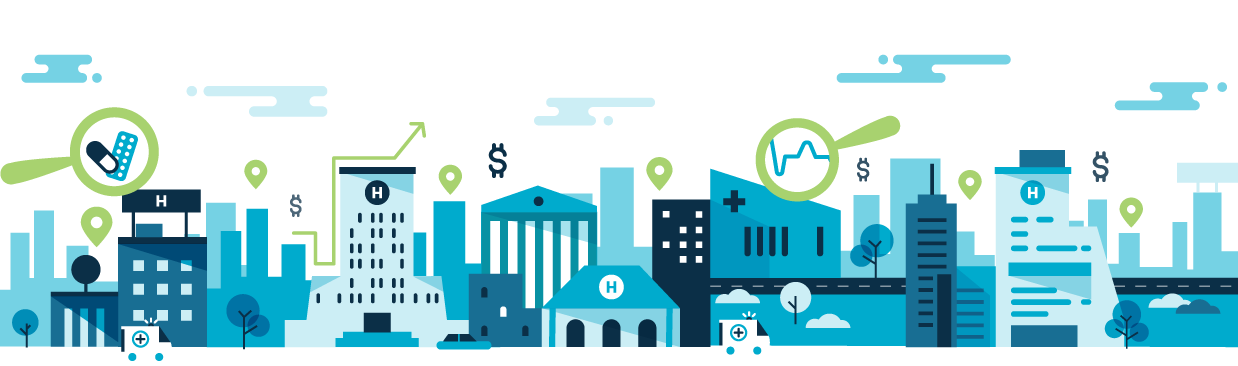
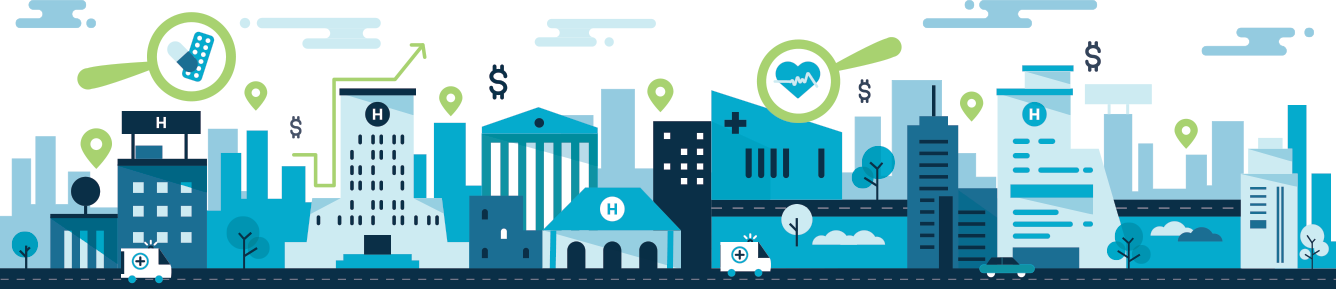
Update styles and about page

diff --git a/app/assets/stylesheets/style.css b/app/assets/stylesheets/style.css
@@ -67,13 +67,14 @@ section { padding:0 50px;}
 .home header .nav li.none a { border:none; border-radius: 0}
 .home header #animation {
     background: url(bghome.png) no-repeat;
-    height: 355px;
+    height: 289px;
     position: absolute;
-    width: 88%;
-    bottom: -8px;
+    width: 100%;
+    bottom: -21px;
     overflow: hidden;
     left: 50%;
-    margin-left: -44%;
+    margin-left: -50%;
+
 }
 .home .text-slider { position: absolute; width: 400px; left: 50%; margin-left: -200px;top: 40%}
 .home .text-slider h3 { font-size: 20px; text-align: center; width: 400px; line-height: 28px; color: #0b2f47;font-weight:700}
@@ -681,8 +682,9 @@ footer a { color: #42B4E7; font-size: 11px;}
 .about .content { padding: 4%}
 
 .about article h2 {font-size: 24px; text-transform: uppercase;font-family: 'Montserrat', sans-serif;font-weight: bold; margin:0 0 50px 0;}
-.about article p {font-size: 15px;line-height: 24px;}
-.about article figure { position: relative; margin: 0 0 20px 0}
+.about article p {font-size: 14px;line-height: 24px;}
+.about article figure { position: relative; margin: 20px; text-align: right;}
+.about article figure  img { width: 100%}
 .about article .title {
 
     border-bottom: 1px solid #42B4E7;

diff --git a/config/routes.rb b/config/routes.rb
@@ -9,7 +9,7 @@ Rails.application.routes.draw do
     get :autocomplete_provider_search_name, on: :collection
   end
 
-  get '/sobre_el_proyecto' => 'home#sobre_el_proyecto'
+  get '/sobre_el_proyecto' => 'home#about'
 
   get "/404" => "errors#not_found"
   get "/500" => "errors#internal_server_error"

diff --git a/app/controllers/home_controller.rb b/app/controllers/home_controller.rb
@@ -21,4 +21,8 @@ class HomeController < ApplicationController
                        @providers.order(:private_insurance).order(:nombre_abreviado)
                      end
   end
+
+  def about
+    @title = 'Sobre el proyecto'
+  end
 end
